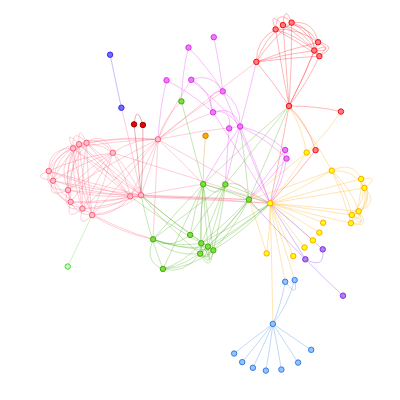
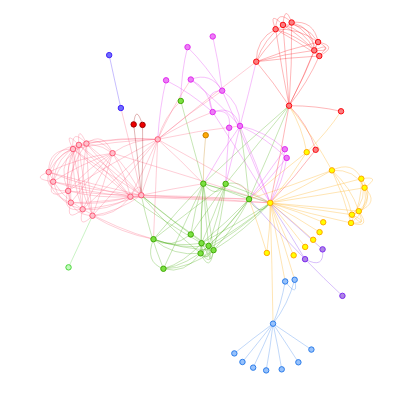
chore: update to 994d4481ba0be5da09252dc43a3772c351b15c19 [ci skip]

diff --git a/esnext/esm/vis-network.js b/esnext/esm/vis-network.js
@@ -5,7 +5,7 @@
  * A dynamic, browser-based visualization library.
  *
  * @version 0.0.0-no-version
- * @date    2026-05-19T16:10:28.104Z
+ * @date    2026-05-21T01:04:33.132Z
  *
  * @copyright (c) 2011-2017 Almende B.V, http://almende.com
  * @copyright (c) 2017-2019 visjs contributors, https://github.com/visjs

diff --git a/esnext/esm/vis-network.min.js b/esnext/esm/vis-network.min.js
@@ -5,7 +5,7 @@
  * A dynamic, browser-based visualization library.
  *
  * @version 0.0.0-no-version
- * @date    2026-05-19T16:10:28.104Z
+ * @date    2026-05-21T01:04:33.132Z
  *
  * @copyright (c) 2011-2017 Almende B.V, http://almende.com
  * @copyright (c) 2017-2019 visjs contributors, https://github.com/visjs

diff --git a/esnext/umd/vis-network.js b/esnext/umd/vis-network.js
@@ -5,7 +5,7 @@
  * A dynamic, browser-based visualization library.
  *
  * @version 0.0.0-no-version
- * @date    2026-05-19T16:10:28.104Z
+ * @date    2026-05-21T01:04:33.132Z
  *
  * @copyright (c) 2011-2017 Almende B.V, http://almende.com
  * @copyright (c) 2017-2019 visjs contributors, https://github.com/visjs

diff --git a/esnext/umd/vis-network.min.js b/esnext/umd/vis-network.min.js
@@ -5,7 +5,7 @@
  * A dynamic, browser-based visualization library.
  *
  * @version 0.0.0-no-version
- * @date    2026-05-19T16:10:28.104Z
+ * @date    2026-05-21T01:04:33.132Z
  *
  * @copyright (c) 2011-2017 Almende B.V, http://almende.com
  * @copyright (c) 2017-2019 visjs contributors, https://github.com/visjs

diff --git a/peer/esm/vis-network.js b/peer/esm/vis-network.js
@@ -5,7 +5,7 @@
  * A dynamic, browser-based visualization library.
  *
  * @version 0.0.0-no-version
- * @date    2026-05-19T16:10:28.104Z
+ * @date    2026-05-21T01:04:33.132Z
  *
  * @copyright (c) 2011-2017 Almende B.V, http://almende.com
  * @copyright (c) 2017-2019 visjs contributors, https://github.com/visjs

diff --git a/peer/esm/vis-network.min.js b/peer/esm/vis-network.min.js
@@ -5,7 +5,7 @@
  * A dynamic, browser-based visualization library.
  *
  * @version 0.0.0-no-version
- * @date    2026-05-19T16:10:28.104Z
+ * @date    2026-05-21T01:04:33.132Z
  *
  * @copyright (c) 2011-2017 Almende B.V, http://almende.com
  * @copyright (c) 2017-2019 visjs contributors, https://github.com/visjs

diff --git a/peer/umd/vis-network.js b/peer/umd/vis-network.js
@@ -5,7 +5,7 @@
  * A dynamic, browser-based visualization library.
  *
  * @version 0.0.0-no-version
- * @date    2026-05-19T16:10:28.104Z
+ * @date    2026-05-21T01:04:33.132Z
  *
  * @copyright (c) 2011-2017 Almende B.V, http://almende.com
  * @copyright (c) 2017-2019 visjs contributors, https://github.com/visjs

diff --git a/peer/umd/vis-network.min.js b/peer/umd/vis-network.min.js
@@ -5,7 +5,7 @@
  * A dynamic, browser-based visualization library.
  *
  * @version 0.0.0-no-version
- * @date    2026-05-19T16:10:28.104Z
+ * @date    2026-05-21T01:04:33.132Z
  *
  * @copyright (c) 2011-2017 Almende B.V, http://almende.com
  * @copyright (c) 2017-2019 visjs contributors, https://github.com/visjs

diff --git a/standalone/esm/vis-network.js b/standalone/esm/vis-network.js
@@ -5,7 +5,7 @@
  * A dynamic, browser-based visualization library.
  *
  * @version 0.0.0-no-version
- * @date    2026-05-19T16:10:28.104Z
+ * @date    2026-05-21T01:04:33.132Z
  *
  * @copyright (c) 2011-2017 Almende B.V, http://almende.com
  * @copyright (c) 2017-2019 visjs contributors, https://github.com/visjs

diff --git a/standalone/esm/vis-network.min.js b/standalone/esm/vis-network.min.js
@@ -5,7 +5,7 @@
  * A dynamic, browser-based visualization library.
  *
  * @version 0.0.0-no-version
- * @date    2026-05-19T16:10:28.104Z
+ * @date    2026-05-21T01:04:33.132Z
  *
  * @copyright (c) 2011-2017 Almende B.V, http://almende.com
  * @copyright (c) 2017-2019 visjs contributors, https://github.com/visjs

diff --git a/standalone/umd/vis-network.js b/standalone/umd/vis-network.js
@@ -5,7 +5,7 @@
  * A dynamic, browser-based visualization library.
  *
  * @version 0.0.0-no-version
- * @date    2026-05-19T16:10:28.104Z
+ * @date    2026-05-21T01:04:33.132Z
  *
  * @copyright (c) 2011-2017 Almende B.V, http://almende.com
  * @copyright (c) 2017-2019 visjs contributors, https://github.com/visjs

diff --git a/standalone/umd/vis-network.min.js b/standalone/umd/vis-network.min.js
@@ -5,7 +5,7 @@
  * A dynamic, browser-based visualization library.
  *
  * @version 0.0.0-no-version
- * @date    2026-05-19T16:10:28.104Z
+ * @date    2026-05-21T01:04:33.132Z
  *
  * @copyright (c) 2011-2017 Almende B.V, http://almende.com
  * @copyright (c) 2017-2019 visjs contributors, https://github.com/visjs